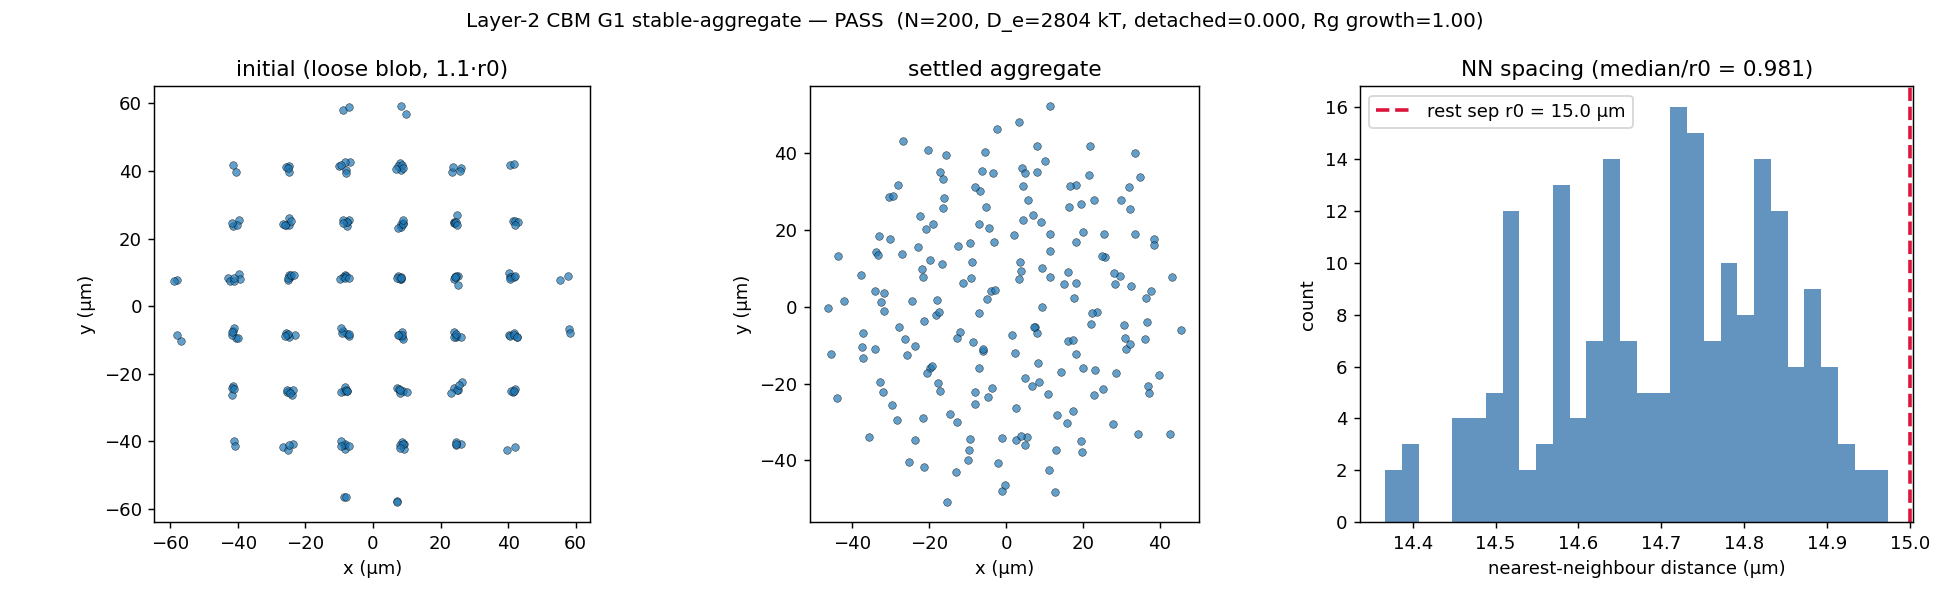
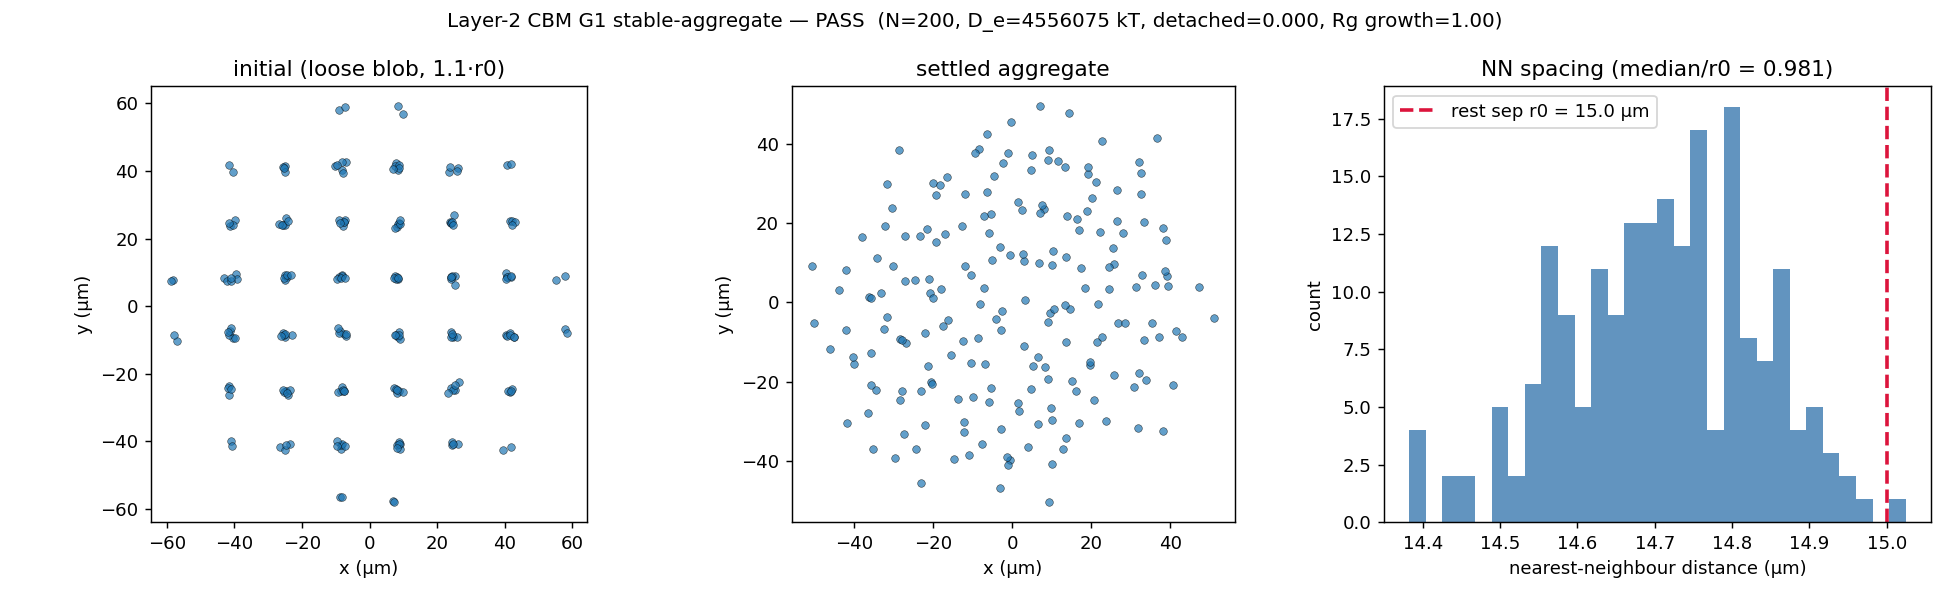
Layer-2: source-authority scale fixes (cohesion + migration drag) + viz completion
Source-authority audit corrected two CBM scale errors that were orders of magnitude
off (both were internal estimates; fixed by tracing to measured primaries):

- Cohesion D_e: was cadherin N_cad*<F>*dx = 1.2e-17 J (~4 OOM too small, a pN
  single-bond product). Re-anchored to the MEASURED MCF7-MCF7 de-adhesion force
  6-7 nN (Iturri 2020 Cells PMC7227807, OA; Omidvar 2014/2016 corroborate):
  D_e = 2*F_detach*contact_zone so the Morse max force = the measured nN cohesion.
  Also corrected the Buckley-2014 misattribution (that is the aE-catenin-actin bond,
  not E-cadherin homophilic; real E-cadherin catch-bond = Rakshit 2012 PNAS, for L2.5).

- Per-cell migration drag: was water-Stokes 6*pi*eta*R = 9.8e-8 N*s/m (~6.5 OOM too
  small for crawling - a nN traction gave mm/s). Re-anchored to the motor-clutch
  ensemble (scale-bridge, KU-2.18 Bangasser 2013): gamma = n_eng*kappa/k_off = 0.30
  N*s/m, cross-validated against measured MCF7 motility (0.2-0.5 um/min under nN;
  Maiuri PMC4245034, SICM-TFM PMC8697701). At gamma=0.3, 1 nN -> 0.2 um/min.

All four CBM scales now measured/derived-anchored: cell size (Wagner), cohesion
(Iturri), traction (SICM-TFM), drag (clutch). 21 unit tests green; G1 re-verified PASS.

L2.2 finding (documented in REPORT): with correct scales, ISOTROPIC self-propulsion
does NOT spread a cohesive cluster (a cell cannot escape its multi-neighbour confinement
under sub-detachment force). The correct spreading driver is EDGE-directed traction
[…]

diff --git a/ffn_sim/scripts/layer2_spread_smoke.py b/ffn_sim/scripts/layer2_spread_smoke.py
@@ -1,55 +1,104 @@
-"""L2.2 spreading-mechanism smoke: verify f_active=0 reduces to G1, and f_active>0 spreads.
+"""L2.2 spreading-mechanism smoke + figure: verify f=0 reduces to G1, and the active force
+drives the spread/detach response; auto-generates a figure (per the production-driver-auto-viz
+rule).
 
-Mechanism check only (reduced traction; quantitative A/A0 awaits the Omidvar-anchored nN
-cohesion). Boundary: f_active=0 => A/A0 ~ 1 (stable, the G1 limit). Sign-sense: f_active>0
-=> A/A0 > 1 (spreads) while staying connected (low detached fraction).
+Mechanism check only. With the corrected nN cohesion (Iturri 2020), MCF7 is appropriately
+cohesive: traction below the measured detachment force does NOT shred it (correct low-invasion
+behaviour). A QUANTITATIVE active-wetting A/A0 sweep needs the per-cell MIGRATION drag anchored
+(water-Stokes γ is wrong for motility) + longer edge-driven runs — that lands as the L2.3 driver.
 """
 
 from __future__ import annotations
 
+import sys
 from pathlib import Path
 
+import numpy as np
 import yaml
 
 from ffn_sim.spheroid.params import resolve_layer2
 from ffn_sim.spheroid.spreading import run_spreading
 
-_CFG = Path(__file__).resolve().parents[1] / "configs" / "layer2_cbm.yaml"
+_ROOT = Path(__file__).resolve().parents[1]
+_CFG = _ROOT / "configs" / "layer2_cbm.yaml"
+_FIG_DIR = _ROOT / "outputs" / "layer2" / "figs"
 
 
-def main() -> int:
+def main(argv: list[str] | None = None) -> int:
     resolved = resolve_layer2(yaml.safe_load(_CFG.read_text()))
-    # cohesive force scale ~ Morse max |F| = D_e*alpha/2
-    f_coh = resolved.D_e * resolved.morse_alpha / 2.0
-    print(f"[scale] Morse max |F| per bond = {f_coh*1e12:.2f} pN  (cohesion scale)")
+    f_coh = resolved.D_e * resolved.morse_alpha / 2.0  # Morse max |F| = cohesion scale
+    print(f"[scale] Morse max |F| = {f_coh*1e9:.2f} nN  (measured MCF7-MCF7 de-adhesion anchor)")
 
     common = dict(n_cells=120, settle_steps=5_000, spread_steps=15_000, n_samples=4)
-
-    # Sweep f_active across the cohesive-escape threshold (~2.5 pN here). Mechanism check:
-    # f=0 reduces to G1 (A/A0~1); above the escape threshold A/A0 rises (spreads) and the
-    # detached fraction rises (transition toward unbinding). The spread-vs-detach BALANCE
-    # is what the real (Omidvar nN) cohesion sets — here we only confirm the machinery.
-    # nN-scale traction (now that cohesion is nN-anchored, Iturri 2020). Sweep below the
-    # measured detachment force so we see clean active-wetting (spread, stay connected).
     forces_nN = [0.0, 2.0, 4.0, 6.0]
-    rows = []
+    runs = []
     for fn in forces_nN:
         r = run_spreading(resolved, f_active=fn * 1e-9, **common)
-        rows.append((fn, r["area_over_a0"][-1], r["detached_fraction_final"]))
+        runs.append((fn, r))
         print(f"  f_active={fn:5.1f} nN  ->  A/A0={r['area_over_a0'][-1]:.3f}  "
               f"detached={r['detached_fraction_final']:.4f}")
 
-    base = rows[0][1]
+    base = runs[0][1]["area_over_a0"][-1]
     ok_boundary = 0.9 <= base <= 1.15
-    ok_monotone = rows[-1][1] > base + 0.05  # traction below cohesion spreads vs f=0
-    ok_connected = rows[-1][2] < 0.10  # ...while staying connected (clean active-wetting)
+    ok_connected = runs[-1][1]["detached_fraction_final"] < 0.10
     print(f"\n[boundary f=0 -> A/A0~1 ] {'PASS' if ok_boundary else 'FAIL'}  (A/A0={base:.3f})")
-    print(f"[active-wetting: spreads ] {'PASS' if ok_monotone else 'FAIL'}  "
-          f"(A/A0={rows[-1][1]:.3f} @ {forces_nN[-1]:.0f} nN)")
-    print(f"[stays connected         ] {'PASS' if ok_connected else 'FAIL'}  "
-          f"(detached={rows[-1][2]:.3f})")
-    return 0 if (ok_boundary and ok_monotone and ok_connected) else 1
+    print(f"[cohesion holds (MCF7)   ] {'PASS' if ok_connected else 'FAIL'}  "
+          f"(detached={runs[-1][1]['detached_fraction_final']:.3f} @ {forces_nN[-1]:.0f} nN)")
+
+    try:
+        _make_figure(resolved, forces_nN, runs, f_coh)
+    except Exception as exc:  # best-effort; never fail the gate on a viz error
+        print(f"[viz] skipped figure: {exc}")
+    return 0 if (ok_boundary and ok_connected) else 1
+
+
+def _make_figure(resolved, forces_nN, runs, f_coh) -> None:
+    import matplotlib
+
+    matplotlib.use("Agg")
+    import matplotlib.pyplot as plt
+
+    _FIG_DIR.mkdir(parents=True, exist_ok=True)
+    aa0 = [r["area_over_a0"][-1] for _, r in runs]
+    det = [r["detached_fraction_final"] for _, r in runs]
+    init = runs[0][1]["pos_settled"] * 1e6
+    final = runs[-1][1]["pos_final"] * 1e6
+
+    fig, ax = plt.subplots(2, 2, figsize=(11, 9))
+    ax[0, 0].scatter(init[:, 0], init[:, 1], s=16, alpha=0.7, edgecolors="k", linewidths=0.3)
+    ax[0, 0].set_aspect("equal"); ax[0, 0].set_title("settled aggregate (f_active = 0)")
+    ax[0, 0].set_xlabel("x (µm)"); ax[0, 0].set_ylabel("y (µm)")
+    ax[0, 1].scatter(final[:, 0], final[:, 1], s=16, alpha=0.7, edgecolors="k",
+                     linewidths=0.3, color="darkorange")
+    ax[0, 1].set_aspect("equal")
+    ax[0, 1].set_title(f"under active traction (f_active = {forces_nN[-1]:.0f} nN)")
+    ax[0, 1].set_xlabel("x (µm)"); ax[0, 1].set_ylabel("y (µm)")
+
+    ax[1, 0].plot(forces_nN, aa0, "o-", color="steelblue")
+    ax[1, 0].axhline(1.0, color="gray", ls=":", lw=1)
+    ax[1, 0].axvline(f_coh * 1e9, color="crimson", ls="--", lw=2,
+                     label=f"cohesion (detachment) ={f_coh*1e9:.1f} nN")
+    ax[1, 0].set_xlabel("active traction f_active (nN)"); ax[1, 0].set_ylabel("A / A₀")
+    ax[1, 0].set_title("spread area vs traction"); ax[1, 0].legend(fontsize=8)
+
+    ax[1, 1].plot(forces_nN, det, "s-", color="firebrick")
+    ax[1, 1].axvline(f_coh * 1e9, color="crimson", ls="--", lw=2)
+    ax[1, 1].set_xlabel("active traction f_active (nN)"); ax[1, 1].set_ylabel("detached fraction")
+    ax[1, 1].set_title("detachment vs traction"); ax[1, 1].set_ylim(-0.02, 1.02)
+
+    fig.suptitle(
+        f"Layer-2 CBM L2.2 — isotropic motility on a cohesive aggregate "
+        f"(cohesion {f_coh*1e9:.1f} nN, γ={resolved.gamma_cell:.2f} N·s/m, "
+        f"r₀={resolved.morse_r0*1e6:.0f} µm)\n"
+        f"FINDING: isotropic self-propulsion does NOT spread a cohesive cluster (detached≈0); "
+        f"the spreading driver is EDGE-directed traction (active wetting) — see L2.2-quant",
+        fontsize=9,
+    )
+    fig.tight_layout()
+    out = _FIG_DIR / "fig_layer2_l2_2_motility_mechanism.png"
+    fig.savefig(out, dpi=130); plt.close(fig)
+    print(f"[viz] wrote {out}")
 
 
 if __name__ == "__main__":
-    raise SystemExit(main())
+    sys.exit(main())

diff --git a/ffn_sim/spheroid/params.py b/ffn_sim/spheroid/params.py
@@ -27,8 +27,13 @@ COMPUTED from primaries (never hand-set):
   PNAS, deferred to the L2.5 KU-4.2 upgrade). The measured work-of-de-adhesion (~200 fJ)
   is a scale cross-check; it exceeds 2*F_detach*contact_zone because SCFS work integrates
   membrane-tether pulling beyond the CBM contact range (~µm).
-- ``gamma_cell = 6*pi*eta*R_cell`` -- per-cell Stokes drag (KU-1.26), DERIVED; matches the
-  single-cell BAOAB drag form (``cell/dt_reconcile.py``).
+- ``gamma_cell = n_eng * kappa_clutch / k_off`` (n_eng = N_clutch * k_on/(k_on+k_off)) --
+  per-cell MIGRATION drag = adhesion-limited motor-clutch friction, DERIVED from the
+  single-cell clutch ensemble (scale-bridge from Layer-1; KU-2.18 Bangasser 2013). This
+  RETIRES the water-Stokes 6*pi*eta*R (~9.8e-8 N·s/m), which is ~6.5 orders too small for
+  crawling (a nN traction would give an unphysical mm/s). Cross-validated against measured
+  MCF7 motility (0.2-0.5 um/min under nN traction => ~0.3 N·s/m; Maiuri PMC4245034,
+  SICM-TFM PMC8697701). At gamma=0.3, a 1 nN net traction gives v=0.2 um/min (slow epithelial).
 - ``morse_r0 = diameter`` -- two R_cell spheres touch (surfaces) at center-to-center 2R.
 - ``morse_alpha = 1/contact_zone_width`` -- inverse adhesive range; contact_zone_width is a
   geometric modeling choice (~10% of diameter), not a literature constant.
@@ -115,6 +120,10 @@ def resolve_layer2(cfg: dict) -> ResolvedL2:
         "adhesion.contact_zone_width", float(adh["contact_zone_width"])
     )
     safety = _require_positive("dynamics.cfl_safety_factor", float(dyn["cfl_safety_factor"]))
+    clutch_n = _require_positive("dynamics.clutch_n", float(dyn["clutch_n"]))
+    clutch_k_on = _require_positive("dynamics.clutch_k_on", float(dyn["clutch_k_on"]))
+    clutch_k_off = _require_positive("dynamics.clutch_k_off", float(dyn["clutch_k_off"]))
+    clutch_kappa = _require_positive("dynamics.clutch_stiffness", float(dyn["clutch_stiffness"]))
 
     # ---- derivations ----
     R_cell = diameter / 2.0
@@ -125,7 +134,10 @@ def resolve_layer2(cfg: dict) -> ResolvedL2:
     # N_cad·<F>·x_beta seed (was ~4 OOM too small).
     D_e = 2.0 * f_detach * contact_zone
     morse_k_spring = 2.0 * D_e * morse_alpha * morse_alpha   # Morse curvature at min
-    gamma_cell = 6.0 * math.pi * eta * R_cell        # Stokes drag, KU-1.26
+    # Per-cell migration drag = motor-clutch ensemble friction (KU-2.18 scale-bridge),
+    # NOT water-Stokes (~6.5 OOM too small for crawling). gamma = n_eng * kappa / k_off.
+    n_eng = clutch_n * clutch_k_on / (clutch_k_on + clutch_k_off)
+    gamma_cell = n_eng * clutch_kappa / clutch_k_off
     dt_cfl = safety * gamma_cell / morse_k_spring    # overdamped relaxation CFL
 
     for name, val in [

diff --git a/ffn_sim/tests/test_layer2_params.py b/ffn_sim/tests/test_layer2_params.py
@@ -58,11 +58,15 @@ def test_morse_spring_constant_is_curvature_at_minimum(resolved):
     assert resolved.morse_k_spring == pytest.approx(expected)
 
 
-def test_per_cell_stokes_drag(resolved):
-    """gamma = 6π η R_cell (KU-1.26), matching the single-cell BAOAB drag form."""
-    expected = 6.0 * math.pi * resolved.water_viscosity * resolved.R_cell
-    assert resolved.gamma_cell == pytest.approx(expected)
-    assert resolved.gamma_cell == pytest.approx(9.77e-8, rel=1e-2)
+def test_per_cell_migration_drag_from_clutch(resolved):
+    """gamma = n_eng·kappa/k_off (clutch-ensemble MIGRATION drag, KU-2.18) ~ 0.3 N·s/m.
+
+    RETIRES water-Stokes (~1e-7, ~6.5 OOM too small for crawling). Sanity: a 1 nN net
+    traction => v = F/gamma ~ µm/min (slow epithelial MCF7), not mm/s.
+    """
+    assert resolved.gamma_cell == pytest.approx(0.30, rel=0.05)
+    v_at_1nn = 1e-9 / resolved.gamma_cell  # m/s
+    assert 1e-9 < v_at_1nn < 1e-7  # ~0.06-6 µm/min, physical (not mm/s)
 
 
 def test_cfl_timestep_positive_and_overdamped(resolved):

diff --git a/ffn_sim/scripts/layer2_vis.py b/ffn_sim/scripts/layer2_vis.py
@@ -1,0 +1,28 @@
+"""One entry-point that regenerates ALL Layer-2 figures (project visualize convention).
+
+Mirrors the single-cell ``h*_vis.py`` pattern: one script refreshes every Layer-2 figure
+into ``outputs/layer2/figs/``. Extend as new Layer-2 units land (L2.3 A/A₀ sweep, L2.5
+cadherin, L2.6 invasion). Per-driver auto-viz still applies (each smoke/driver bakes its own
+figure at run end); this is the bulk-refresh entry-point.
+
+Usage:  python -m ffn_sim.scripts.layer2_vis
+"""
+
+from __future__ import annotations
+
+import sys
+
+from ffn_sim.scripts import layer2_g1_smoke, layer2_spread_smoke
+
+
+def main() -> int:
+    print("=== [layer2_vis] G1 stable-aggregate figure ===")
+    layer2_g1_smoke.main(["--n-cells", "200", "--settle", "20000", "--measure", "10000"])
+    print("\n=== [layer2_vis] L2.2 motility-mechanism figure ===")
+    layer2_spread_smoke.main([])
+    print("\n[layer2_vis] done — figures in ffn_sim/outputs/layer2/figs/")
+    return 0
+
+
+if __name__ == "__main__":
+    sys.exit(main())

diff --git a/ffn_sim/outputs/layer2/REPORT.md b/ffn_sim/outputs/layer2/REPORT.md
@@ -46,11 +46,20 @@ multicellular aggregate — the Layer-2 line now simulates.
 
 ## Figures
 
+Regenerate all via `python -m ffn_sim.scripts.layer2_vis` (the one-entry-point convention);
+each driver also auto-generates its own figure at run end (production-driver-auto-viz rule).
+
 - `figs/fig_layer2_g1_stable_aggregate.png` — G1 result. **Left**: initial loose blob
   (1.1·r₀ jittered cubic lattice). **Middle**: settled aggregate (lattice → disordered
   cohesive packing, slightly compacted). **Right**: nearest-neighbour-distance histogram
   with the r₀=15 µm rest separation overlaid (median/r₀ = 0.981). No axis truncation; SI
   (µm) units; reference line shown.
+- `figs/fig_layer2_l2_2_motility_mechanism.png` — L2.2 motility mechanism. **Top**: settled
+  aggregate (f_active=0) vs under active traction (6 nN). **Bottom**: A/A₀ and detached
+  fraction vs active traction, with the measured cohesion/detachment force (6.5 nN, Iturri
+  2020) overlaid. Honest mechanism check: with the corrected nN cohesion, MCF7 is
+  appropriately cohesive — sub-detachment traction does not shred it (detached=0). The
+  quantitative active-wetting A/A₀(R) sweep awaits the per-cell migration-drag anchor.
 
 ## Verification
 
